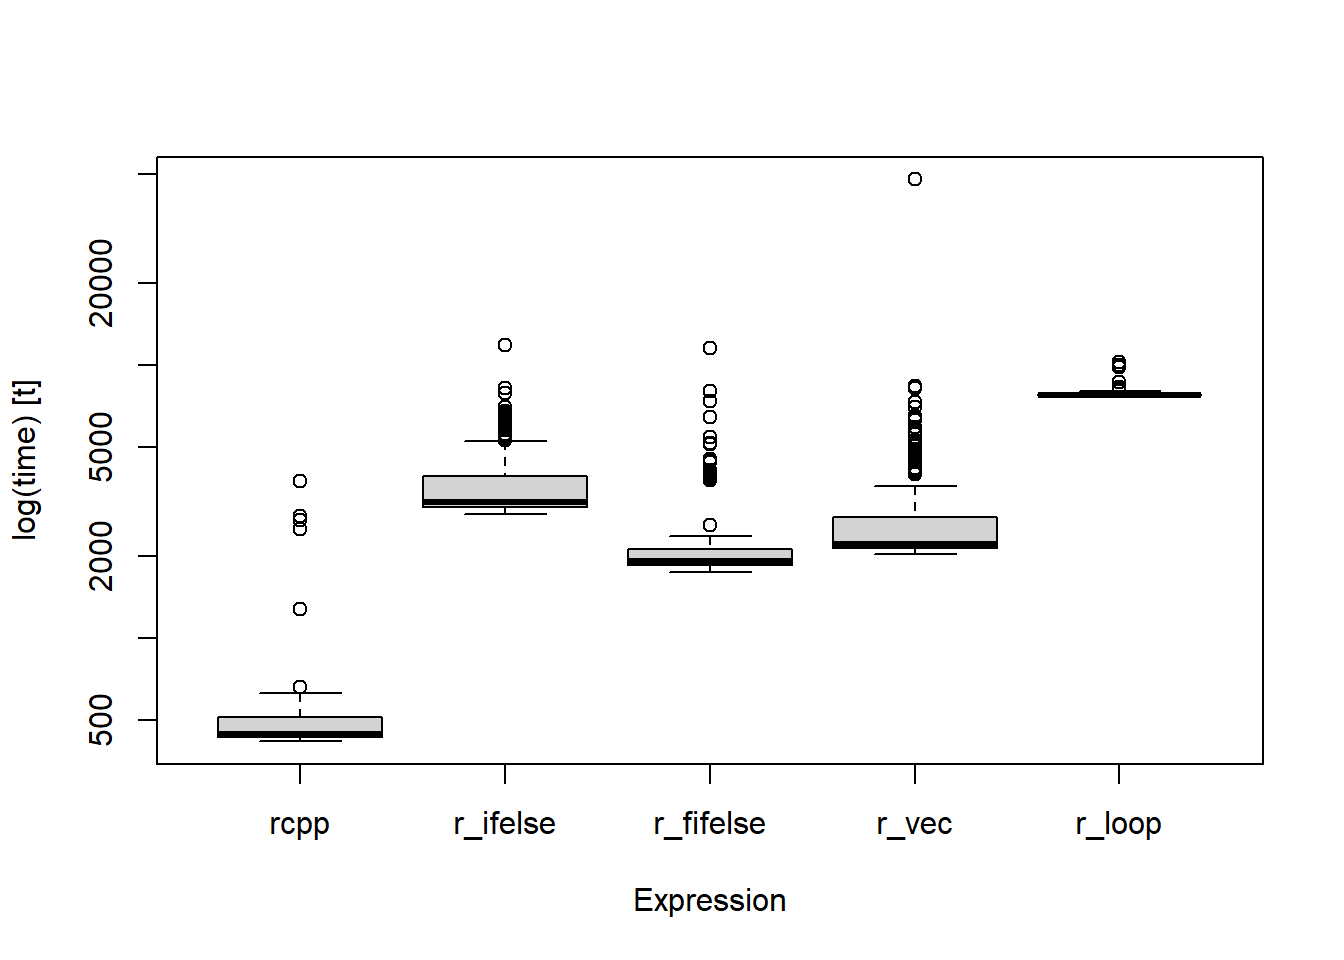
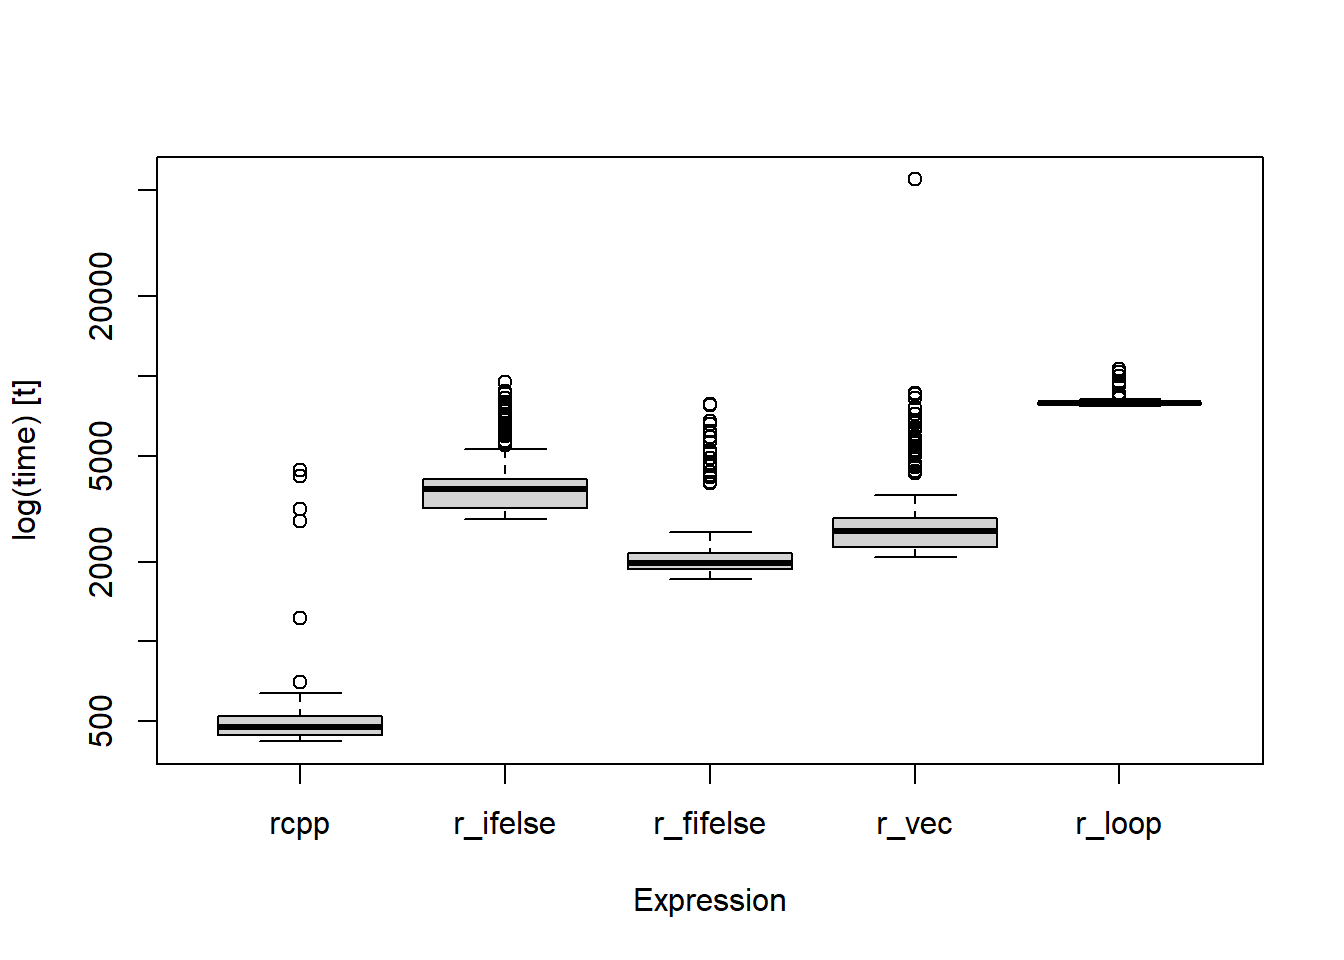
Typos in current post

diff --git a/content/post/2024-03-08-speed-with-ease/index.html b/content/post/2024-03-08-speed-with-ease/index.html
@@ -30,14 +30,14 @@ projects: []
 <div id="example" class="section level2">
 <h2>Example</h2>
 <p>The following example may not have great practical utility, nor be it the most optimized, but it does a good job showcasing the similarities between raw R and code written with Rcpp.</p>
-<p>Imagine for the moment you are a data analyst that has been provided a vector of data. You want to perform a selective operation based upon the values in this vector. The values above zero will undergo a square root, whereas those zero and below will be raised to the power of two and then square rooted. As a piece-wise function in math jargon, this looks like:</p>
+<p>Imagine for the moment you are a data analyst who has been provided a vector of data. You want to perform a selective operation based upon the values in this vector. The values above zero will undergo a square root, whereas those zero and below will be raised to the power of two and then square rooted. As a piece-wise function in math jargon, this looks like:</p>
 <p><span class="math display">\[
 f(x) = \begin{cases}
 \sqrt{x} &amp; :  x &gt; 0 \\
 \sqrt{x^2} &amp; : x \leq 0 \\
 \end{cases}
 \]</span></p>
-<p>However, you are uncertain as to what coding approach is most efficient and want to test out some options. Before we start defining the functions we must first must load some packages and set the seed…</p>
+<p>However, you are uncertain as to what coding approach is most efficient and want to test out some options. Before we start defining the functions we must first load some packages and set the seed…</p>
 <pre class="r"><code>set.seed(9054)
 library(Rcpp)
 library(microbenchmark)
@@ -134,11 +134,11 @@ cpp_benchmark &lt;- microbenchmark(rcpp = rcpp_loop(my_vec),
 print(cpp_benchmark, order = &#39;median&#39;)</code></pre>
 <pre><code>## Unit: microseconds
 ##       expr    min     lq      mean  median     uq     max neval
-##       rcpp  418.6  434.5  508.5652  445.30  513.1  3750.1   250
-##  r_fifelse 1748.3 1855.5 2214.8552 1919.60 2116.7 11512.0   250
-##      r_vec 2038.9 2139.8 2964.0936 2212.00 2767.7 47931.1   250
-##   r_ifelse 2849.8 3014.2 3810.2104 3156.25 3915.4 11845.0   250
-##     r_loop 7677.6 7740.0 7844.0692 7804.55 7863.4 10247.0   250</code></pre>
+##       rcpp  421.0  445.3  541.5432  474.65  525.5  4442.3   250
+##  r_fifelse 1712.2 1867.1 2265.2816 1974.15 2152.8  7827.6   250
+##      r_vec 2079.3 2268.6 3243.7660 2617.30 2919.8 55034.8   250
+##   r_ifelse 2904.2 3174.9 4144.4700 3744.00 4076.6  9514.2   250
+##     r_loop 7694.0 7819.9 7956.5692 7893.70 7981.9 10615.7   250</code></pre>
 <p>When sorted by the median run time across replications for each function we get a range from ~500 microseconds to ~8000 microseconds. Although the table is nice, it is easier to see the differences between replications and each function when presented in a plot.</p>
 <pre class="r"><code>boxplot(cpp_benchmark, log = TRUE, outline = TRUE)</code></pre>
 <div class="figure"><span id="fig:unnamed-chunk-6"></span>
